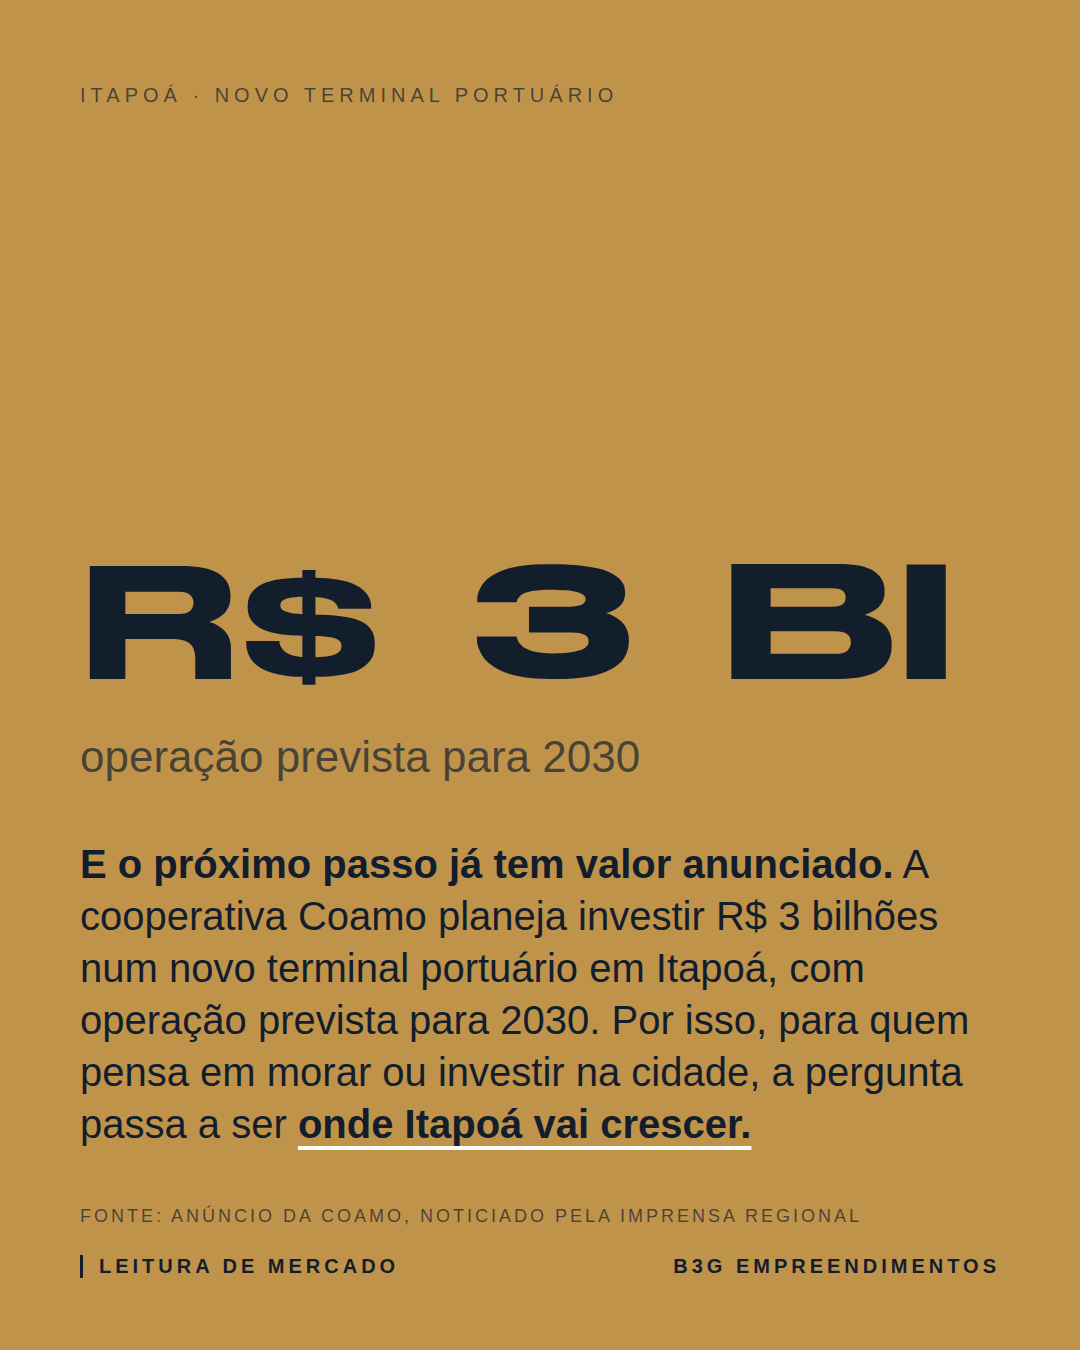
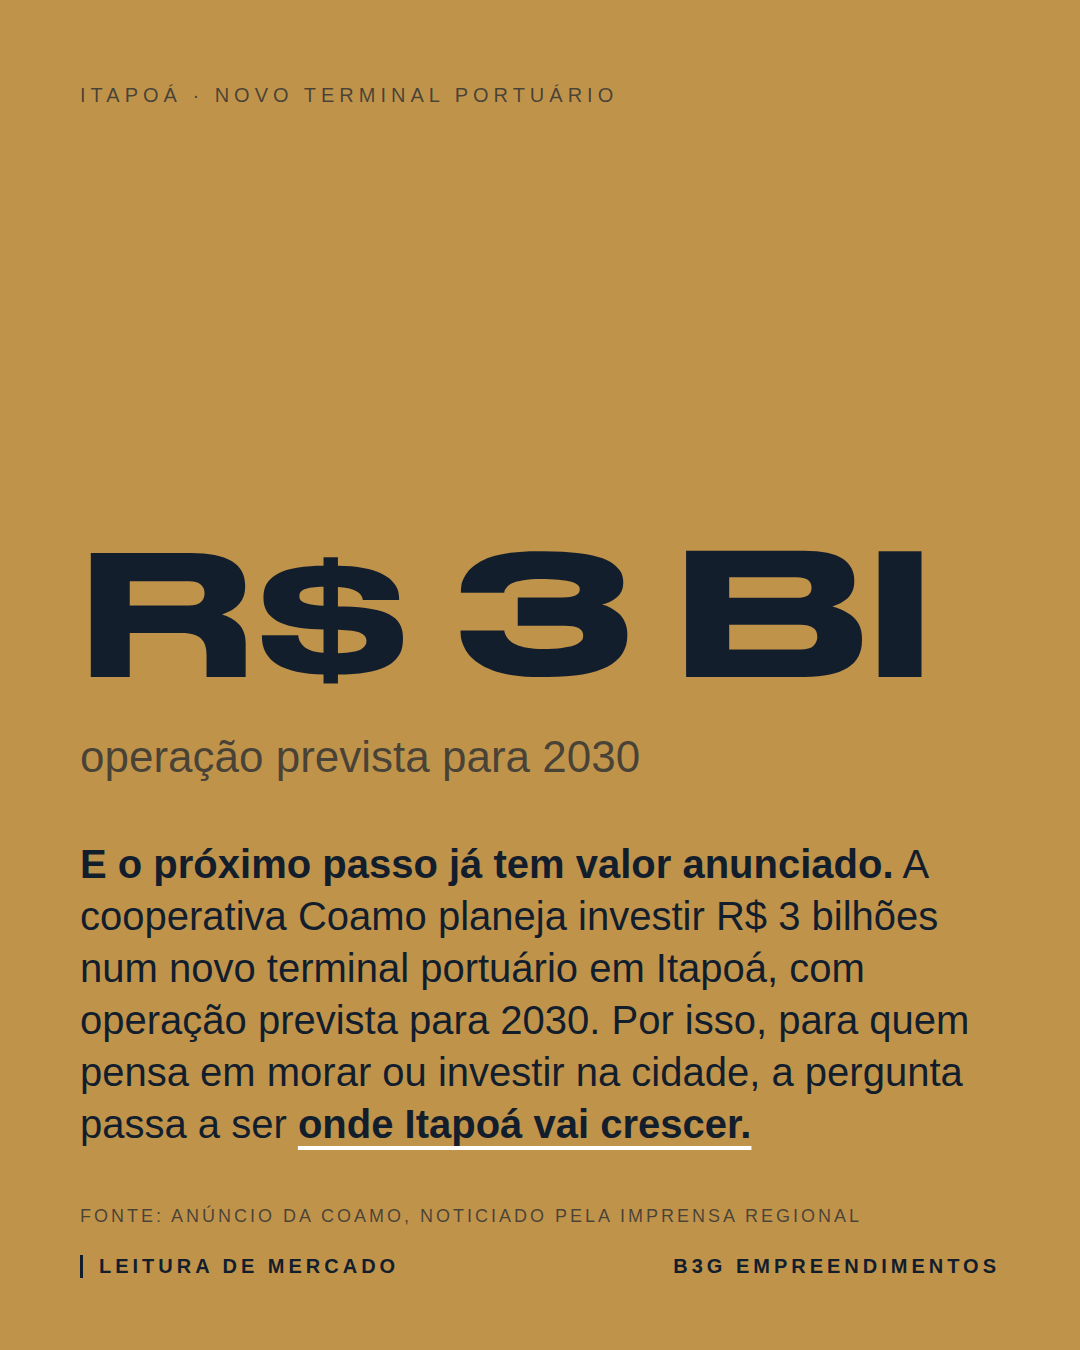
Tighten word spacing in the big Stretch Pro figures
Claude-Session: https://claude.ai/code/session_01MkJUPckMk2A57CZdQx2khj

Changed region(s): [[0.6111, 0.4044, 0.8861, 0.5289], [0.0611, 0.4044, 0.3972, 0.5289], [0.4278, 0.4044, 0.5806, 0.4978]]

diff --git a/b3g-carrosseis/conteudo/carrosseis/itapoa-cidade-de-predios/instagram/slide-04.html b/b3g-carrosseis/conteudo/carrosseis/itapoa-cidade-de-predios/instagram/slide-04.html
@@ -13,7 +13,7 @@ body.dourado{background:#C0934B;color:#131E2D;--sec:rgba(19,30,45,.7);--bar1:rgb
 .logo{width:150px;display:block}
 .corpo{position:absolute;left:80px;right:80px;bottom:200px;z-index:3}
 .big{font-family:"Stretch Pro",Arial,sans-serif;line-height:.95;letter-spacing:.005em;display:flex;align-items:baseline;gap:28px;flex-wrap:wrap}
-.big .n{font-size:190px}
+.big .n{font-size:190px;word-spacing:-.3em}
 .big .u{font-family:Arial,sans-serif;font-size:44px;color:var(--sec);letter-spacing:0}
 .barras{margin-top:56px;display:grid;grid-template-columns:150px 1fr;row-gap:22px;align-items:center;font-size:26px}
 .barras .l{color:var(--sec)}
@@ -31,7 +31,7 @@ body.foto .rodape .sec,body.navy .rodape .sec{color:#fff}
 body.claro .rodape .sec,body.dourado .rodape .sec{color:#131E2D}
 .rodape .sec span{border-left:3px solid currentColor;padding-left:16px}
 .ac{font-family:Archivo,sans-serif;font-stretch:125%;font-weight:900;font-size:.98em}
-</style><style>.big .n{font-size:164px;white-space:nowrap}</style></head><body class="dourado">
+</style><style>.big .n{font-size:180px;white-space:nowrap}</style></head><body class="dourado">
 <div class="rotulo"><span>Itapoá · Novo terminal portuário</span></div>
 <div class="corpo">
   <div class="big"><span class="n">R$ 3 BI</span><span class="u">operação prevista para 2030</span></div>

diff --git a/b3g-carrosseis/conteudo/carrosseis/itapoa-cidade-de-predios/instagram/slide-02.html b/b3g-carrosseis/conteudo/carrosseis/itapoa-cidade-de-predios/instagram/slide-02.html
@@ -13,7 +13,7 @@ body.dourado{background:#C0934B;color:#131E2D;--sec:rgba(19,30,45,.7);--bar1:rgb
 .logo{width:150px;display:block}
 .corpo{position:absolute;left:80px;right:80px;bottom:200px;z-index:3}
 .big{font-family:"Stretch Pro",Arial,sans-serif;line-height:.95;letter-spacing:.005em;display:flex;align-items:baseline;gap:28px;flex-wrap:wrap}
-.big .n{font-size:190px}
+.big .n{font-size:190px;word-spacing:-.3em}
 .big .u{font-family:Arial,sans-serif;font-size:44px;color:var(--sec);letter-spacing:0}
 .barras{margin-top:56px;display:grid;grid-template-columns:150px 1fr;row-gap:22px;align-items:center;font-size:26px}
 .barras .l{color:var(--sec)}

diff --git a/b3g-carrosseis/conteudo/carrosseis/itapoa-cidade-de-predios/instagram/slide-03.html b/b3g-carrosseis/conteudo/carrosseis/itapoa-cidade-de-predios/instagram/slide-03.html
@@ -13,7 +13,7 @@ body.dourado{background:#C0934B;color:#131E2D;--sec:rgba(19,30,45,.7);--bar1:rgb
 .logo{width:150px;display:block}
 .corpo{position:absolute;left:80px;right:80px;bottom:200px;z-index:3}
 .big{font-family:"Stretch Pro",Arial,sans-serif;line-height:.95;letter-spacing:.005em;display:flex;align-items:baseline;gap:28px;flex-wrap:wrap}
-.big .n{font-size:190px}
+.big .n{font-size:190px;word-spacing:-.3em}
 .big .u{font-family:Arial,sans-serif;font-size:44px;color:var(--sec);letter-spacing:0}
 .barras{margin-top:56px;display:grid;grid-template-columns:150px 1fr;row-gap:22px;align-items:center;font-size:26px}
 .barras .l{color:var(--sec)}
